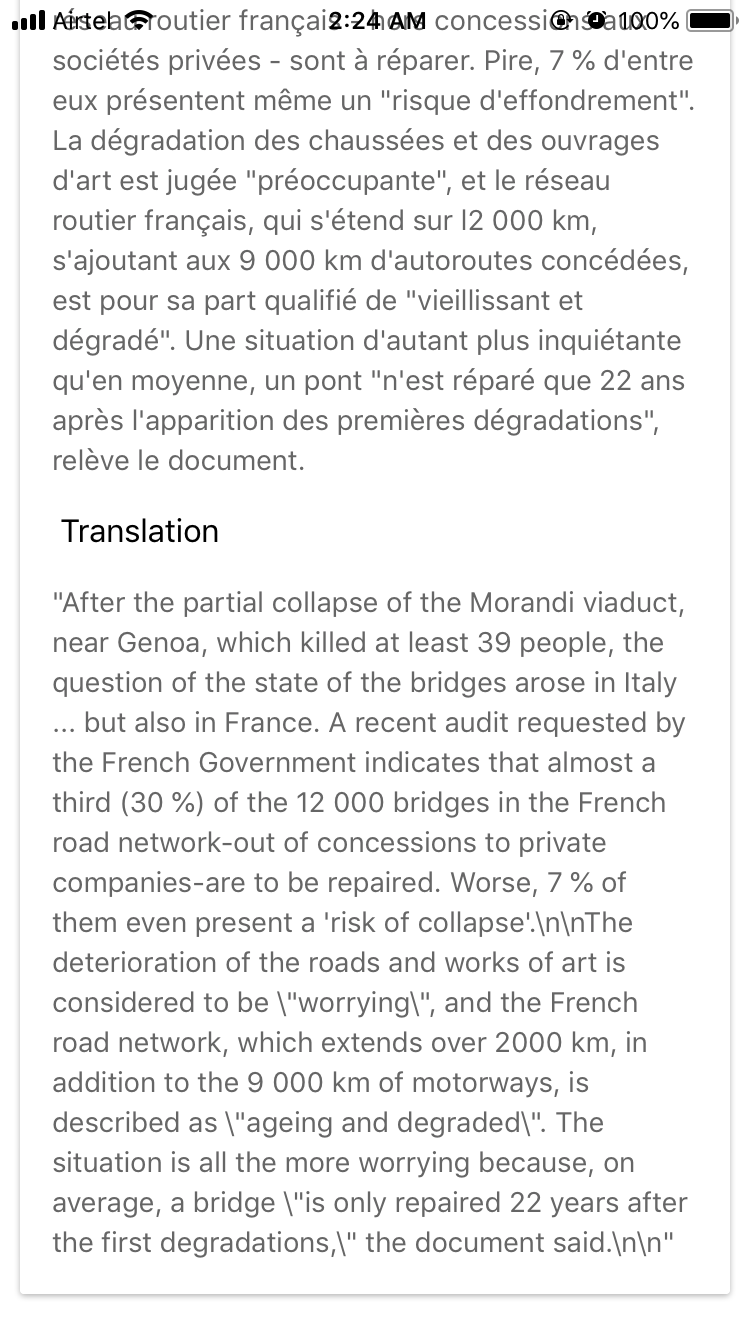
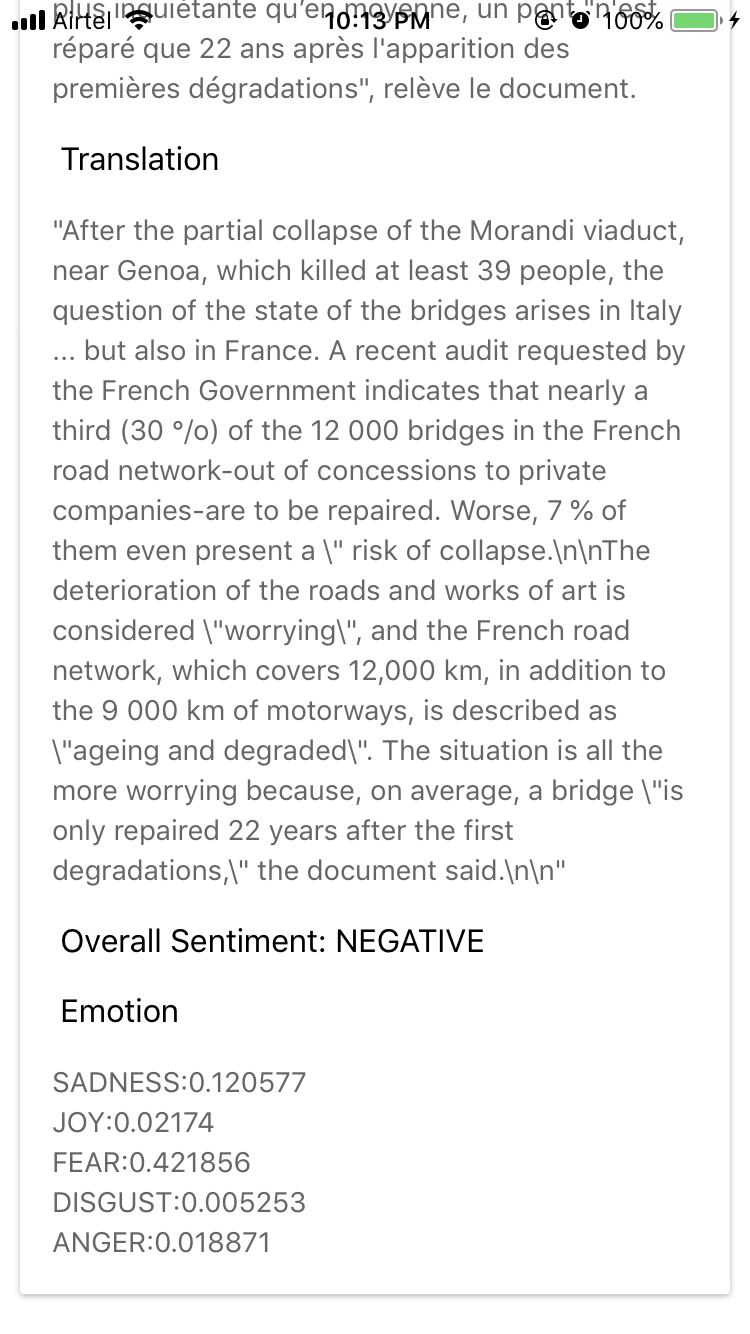
NLU response added

Changed region(s): [[0.0613, 0.0, 0.9813, 0.9528]]

diff --git a/server/app.js b/server/app.js
@@ -6,12 +6,17 @@ const fs = require("fs");
 const formidable = require("formidable");
 const tesseract = require("node-tesseract");
 const LanguageTranslatorV3 = require("watson-developer-cloud/language-translator/v3");
+const NaturalLanguageUnderstandingV1 = require('watson-developer-cloud/natural-language-understanding/v1.js');
 require('dotenv').config();
 
 let languageTranslator = new LanguageTranslatorV3({
     version: "2018-05-01"
 });
 
+let natural_language_understanding = new NaturalLanguageUnderstandingV1({
+    version: '2018-03-16'
+});
+    
 if (fs.existsSync("/opt/lt-service-bind/binding")) {
     const binding = JSON.parse(fs.readFileSync("/opt/lt-service-bind/binding", "utf8"));
     languageTranslator = new LanguageTranslatorV3({
@@ -19,6 +24,26 @@ if (fs.existsSync("/opt/lt-service-bind/binding")) {
         url: binding.url,
         version: "2018-05-01"
     });
+};
+
+if (fs.existsSync('/opt/nlu-service-bind/binding')) {
+    const nlubinding = JSON.parse(fs.readFileSync('/opt/nlu-service-bind/binding', 'utf8'));
+
+    if (nlubinding.username) {
+        natural_language_understanding = new NaturalLanguageUnderstandingV1({
+        username: nlubinding.username,
+        password: nlubinding.password,
+        url: nlubinding.url,
+        version: '2018-03-16'
+      });
+    }
+    else {
+        natural_language_understanding = new NaturalLanguageUnderstandingV1({
+        iam_apikey: nlubinding.apikey,
+        url: nlubinding.url,
+        version: '2018-03-16'
+      });
+    }
 };
 
 application.get("/", function (req, response) {    
@@ -57,11 +82,30 @@ application.post("/uploadpic", function (req, result) {
                             const labelsvr = response.translations[0].translation;
                             console.log(labelsvr);
                             let cleanString = labelsvr.replace(/\n/g, '');                            
-                            console.log(cleanString);                                                      
+                            console.log(cleanString); 
+                            const params = {
+                                'text': labelsvr,
+                                'features': {
+                                    sentiment: {},
+                                    emotion: {}
+                                    }
+                                };
+                            natural_language_understanding.analyze(params, function(err, nluresponse) {
+                            if (err){
+                            console.log('error:', err);
+                            }else{
+                            const sentresp = JSON.stringify(nluresponse.sentiment.document.label);
+                            console.log(sentresp);
+                            const emotoutput = JSON.stringify(nluresponse.emotion.document.emotion);
+                            console.log(emotoutput);
                             result.json({
                                 data: cleanString,
-                                ocropt: ocrtext
-                            });
+                                ocropt: ocrtext,
+                                sentiment: sentresp,
+                                emotion: emotoutput
+                                    });      
+                                }
+                            }); 
                         }
                     });
                 }

diff --git a/mobile/www/js/index.js b/mobile/www/js/index.js
@@ -41,6 +41,14 @@ function onDevice(){
     document.getElementById("languagetranslator").innerHTML = "&nbsp;Translation";
     var output = Response.data;
     document.getElementById("translatorresult").innerHTML = output;
+    var sentimentop = Response.sentiment;
+    sentimentop = sentimentop.replace(/"/g,"");
+    document.getElementById("sentiment").innerHTML = "&nbsp;Overall Sentiment:&nbsp;" + sentimentop.toUpperCase();
+    document.getElementById("emotion").innerHTML = "&nbsp;Emotion";
+    var emotionop = Response.emotion;
+    emotionop = emotionop.replace(/{|"|}/g,"");
+    emotionop = emotionop.replace(/,/g,"<br>");
+    document.getElementById("emotionoutput").innerHTML = emotionop.toUpperCase();
     }
     var fail = function (error) {
     alert("An error has occurred: Code = " + error.code);

diff --git a/mobile/www/index.html b/mobile/www/index.html
@@ -81,6 +81,9 @@
                     <p id="ocrtext"></p>
                     <h2 id="languagetranslator"><b></b></h2>
                     <p id="translatorresult"></p>
+                    <h2 id="sentiment"><b></b></h2>
+                    <h2 id="emotion"><b></b></h2>
+                    <p id="emotionoutput"></p>
                     </div>
                     </div>
         

diff --git a/README.md b/README.md
@@ -1,6 +1,6 @@
 # Build a hybrid mobile app that can capture an image, recognize and translate text using Tesseract OCR & Watson Language Translator
 
-In this Code Pattern, we will create a hybrid mobile app using Apache Cordova and Node.js server application running on IBM Cloud Kubernetes service that uses Tesseract OCR to recognize text in images and Watson Language Translator to translate the recognized text. This mobile app translates the recognized text from the images captured or uploaded from the photo album.
+In this Code Pattern, we will create a hybrid mobile app using Apache Cordova and Node.js server application running on IBM Cloud Kubernetes service that uses Tesseract OCR to recognize text in images, Watson Language Translator to translate the recognized text and Watson Natural Language Understanding to extract emotion,sentiment from the text. This mobile app translates the recognized text from the images captured or uploaded from the photo album.
 
 When the reader has completed this Code Pattern, they will understand how to:
 
@@ -8,18 +8,20 @@ When the reader has completed this Code Pattern, they will understand how to:
 * Create Node.js apps that capture, recognize and translate text using Watson services.
 * Deploy Tesseract OCR on IBM Cloud Kubernetes service to recognize text and bind Watson service to cluster.
 * Translate recognized text using Watson Language Translator.
+* Extract sentiment, emotion from the text using Watson Natural Language Understanding.
 
-![Architecture diagram](doc/source/images/architecture-v2.png)
+![Architecture diagram](doc/source/images/architecture-v3.png)
 
 ## Flow
 1. The user interacts with the mobile app and captures an image or selects an image from the photo album.
 2. The image is passed to the Node.js server application that is running on IBM Cloud Kubernetes service which uses Tesseract OCR to recognize text in an image.
-3. Node.js app uses Watson language translator service to translate the recognized text.
-4. Recognized text and language translator result is returned to the mobile app for display.
+3. Node.js app uses Watson language translator service to translate the recognized text and Watson Natural Language Understanding to return the sentiment & emotion of the translated text.
+4. Recognized text,translated language,sentiment and emotion result is returned to the mobile app for display.
 
 ## Included components
 * [IBM Cloud Container Service](https://console.bluemix.net/docs/containers/container_index.html): IBM Bluemix Container Service manages highly available apps inside Docker containers and Kubernetes clusters on the IBM Cloud.
 * [Watson Language Translator](https://www.ibm.com/watson/services/language-translator/): IBM Watson Language Translator is a service that enables you to dynamically translate news, patents or conversational documents.
+* [Watson Natural Language Understanding](https://www.ibm.com/watson/developercloud/natural-language-understanding.html): An IBM Cloud service that can analyze text to extract meta-data from content such as concepts, entities, keywords, categories, sentiment, emotion, relations, semantic roles, using natural language understanding. 
 
 ## Featured technologies
 * [Apache Cordova](https://cordova.apache.org/): An an open-source mobile development framework to build hybrid mobile apps.
@@ -36,7 +38,7 @@ This Code Pattern contains several pieces. The Node.js server application runnin
 
 
 1. [Clone the repo](#1-clone-the-repo)
-2. [Create language translation service with IBM Cloud](#2-create-language-translation-service-with-ibm-cloud)
+2. [Create language translation & natural language understanding service with IBM Cloud](#2-create-language-translation-service-with-ibm-cloud)
 3. [Run the server application in a container on IBM Cloud with Kubernetes](#3-run-the-server-application-in-a-container-on-ibm-cloud-with-kubernetes)
 4. [Run the server application locally using docker](#4-run-the-application-locally-using-docker)
 5. [Run the mobile application](#5-run-the-mobile-application)
@@ -50,12 +52,13 @@ $ git clone https://github.ibm.com/riyamaro/snap-and-translate.git
 $ cd snap-and-translate
 ```
 
-## 2. Create language translation service with IBM cloud
+## 2. Create language translation & natural language understanding service with IBM Cloud
 
 If you do not already have a IBM Cloud account, [sign up for Bluemix](https://console.bluemix.net/registration).
 Create the following services:
 
 * [**Watson Language Translator**](https://console.bluemix.net/catalog/services/language-translator)
+* [**Watson Natural Language Understanding**](https://console.bluemix.net/catalog/services/natural-language-understanding)
 
 Go to `Service Credentials` and save the `API Key` and `URL` for later use.
 
@@ -81,18 +84,20 @@ The output of this command will contain a KUBECONFIG environment variable that m
 $ export KUBECONFIG=/Users/riyaroy/.bluemix/plugins/container-service/clusters/<cluster_name>/kube-config-hou02-<cluster_name>.yml
 ```
 
-* Add Language Translator service to your cluster
+* Add Language Translator & Natural Language Understanding service to your cluster
 
-Add the Language Translator service to your IBM Cloud account by replacing with a name for your service instance.
+Add the Language Translator & Natural Language Understanding service to your IBM Cloud account by replacing with a name for your service instance.
 
 ```
 $ bx service create create language_translator lite <service_name>
+$ bx service create create natural-language-understanding free <service_name>
 ```
 
-* Bind the Language Translator instance to the default Kubernetes namespace for the cluster. Later, you can create your own namespaces to manage user access to Kubernetes resources, but for now, use the default namespace. Kubernetes namespaces are different from the registry namespace you created earlier. Replace cluster name and service instance name.
+* Bind the Language Translator & Natural Language Understanding instance to the default Kubernetes namespace for the cluster. Later, you can create your own namespaces to manage user access to Kubernetes resources, but for now, use the default namespace. Kubernetes namespaces are different from the registry namespace you created earlier. Replace cluster name and service instance name.
 
 ```
-$ bx cs cluster-service-bind --cluster <cluster_name> --namespace default --service <service_name>
+$ bx cs cluster-service-bind --cluster <cluster_name> --namespace default --service <language_translate_service_name>
+$ bx cs cluster-service-bind --cluster <cluster_name> --namespace default --service <nlu_service_name>
 ```
 
 Your cluster is configured and your local environment is ready for you to start deploying apps into the cluster.
@@ -148,7 +153,7 @@ $ docker build -t snap-translate-server .
 docker run --rm -it -p 3000:3000 snap-translate-server
 ```
 * You can now access the `server` API using URL: `http://localhost:3000`
-
+```
 ## 5. Run the mobile application
 
 Steps below will help you to deploy the `snap-and-translate/mobile` mobile application.
@@ -277,10 +282,10 @@ At this point, the app named `TranslateIt` should be on your mobile device. Use 
 
 # Sample output
 * Here is what the app looks like in an iPhone.
-![](doc/source/images/output1.PNG)
-![](doc/source/images/output2.PNG)
+<img src="doc/source/images/output1.PNG" width="250"><img src="doc/source/images/output2.PNG" width="250">
+<img src="doc/source/images/output3.PNG" width="250">
 * Here's the app translating a Spanish text from a road sign to English.
-![](doc/source/images/output_2.png)
+<img src="doc/source/images/output_2.PNG" width="250">
 
 # Troubleshooting
 
